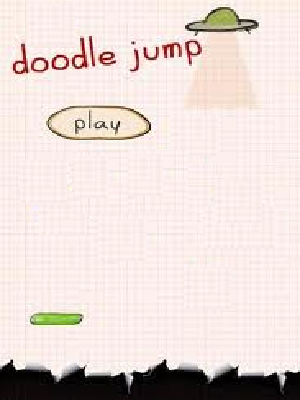
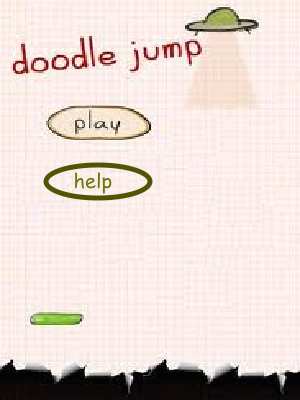
Added Factory pattern for tile generation and memento pattern for switching between help and start screen. Also breakable and spring tiles have been added to images folder

Changed region(s): [[0.15, 0.39, 0.51, 0.51]]

diff --git a/doodler.java b/doodler.java
@@ -18,6 +18,12 @@ public class doodler  extends Actor
     ground Ground = new ground();
     int scrollSpeed;
     int hits = 0;
+    int x1;
+    int x2;
+    int y1,y2;
+    int groundChance;
+    
+    public static int groundCount=0;
     /**
      * Act - do whatever the doodler wants to do. This method is called whenever
      * the 'Act' or 'Run' button gets pressed in the environment.
@@ -88,14 +94,72 @@ public class doodler  extends Actor
             if(canMove & !Ground.hasBeenBounced)
             {
                 Ground.hasBeenBounced=true;
+                groundChance=Greenfoot.getRandomNumber(100);
+                y1=getRandomY(groundCount%350);
+                y2=y1+100;    
+                
+                //generate brown tiles between 0-30      
+                if(groundChance <=  30 )
                 {
-                    getWorld().addObject(groundFactory.getGround(Greenfoot.getRandomNumber(2)), Greenfoot.getRandomNumber(300), 0);
-                    getWorld().addObject(groundFactory.getGround(Greenfoot.getRandomNumber(2)), Greenfoot.getRandomNumber(20), 70);
+                    x1=Greenfoot.getRandomNumber(300);
+                    x2=getRandomX(x1);
+                    groundCount++;
+                    //1 => Brown tile
+                    getWorld().addObject(groundFactory.getGround(1), x1, y1);
+                   
+                    groundCount++;
+                    
+                    getWorld().addObject(groundFactory.getGround(0), x2, y2);
+                    
                 }
+                  
+                    //generate spring tile between 30-40 
+                else if(groundChance <= 40)   
+                    {
+                    x1=Greenfoot.getRandomNumber(300);
+                    x2=getRandomX(x1);
+                    groundCount++;
+                    //2 => spring Tile
+                    getWorld().addObject(groundFactory.getGround(2), x1, y1);
+                    groundCount++;
+                    getWorld().addObject(groundFactory.getGround(0), x2, y2);
+                    
+                }
+                else
+                    {
+                    x1=Greenfoot.getRandomNumber(300);
+                    x2=getRandomX(x1);    
+                      //generate green tiles   
+                    groundCount++;
+                    //0 => Green tile
+                    getWorld().addObject(groundFactory.getGround(0), x1, y1);
+  
+                    groundCount++;  
+                    getWorld().addObject(groundFactory.getGround(0), x2, y2);
+                    
+                    }    
+                    
             }
         }
     }
+    //avoid overlapping of tiles
+    public int getRandomX(int randomX1)
+    {
+        int randomX2=Greenfoot.getRandomNumber(300);
+        while(randomX2==randomX1)
+        {
+         randomX2= Greenfoot.getRandomNumber(300);
+        }
+        
+        return randomX2;
+       
+    }    
 
+    public int getRandomY(int count)
+    {
+        //System.out.println(((count*20)+count)/100);
+        return ((count*20)+count)/100; 
+    }    
     public void keys()
     {
         if(Greenfoot.isKeyDown("right"))
@@ -156,6 +220,7 @@ public class doodler  extends Actor
     {
         ((doodleWorld) getWorld()).fall = true;
         ((doodleWorld) getWorld()).scrollSpeed = (int) -ys;
+        groundCount=0;
     }
 
     public void scout()

diff --git a/doodleWorld.java b/doodleWorld.java
@@ -8,7 +8,7 @@ import greenfoot.*;  // (World, Actor, GreenfootImage, Greenfoot and MouseInfo)
  */
 public class doodleWorld  extends World
 {
-    boolean bStarted, started = false;
+    boolean bStarted, started,help  = false;
     boolean once;
     int transparency = 0;
     int scrollSpeed;
@@ -18,6 +18,7 @@ public class doodleWorld  extends World
     GroundFactory groundFactory=new GroundFactory();
     int height = 0;
     int doodleX;
+    worldMemento memento;
     /**
      * Constructor for objects of class doodleWorld.
      * 
@@ -37,10 +38,12 @@ public class doodleWorld  extends World
         height = 0;
         fall = false;
         ended = false;
+        help=false;
     }
 
     public void act()
     {
+        MouseInfo mouse = Greenfoot.getMouseInfo();
         if(bStarted==false & Greenfoot.mouseMoved(this))
         {
             bStarted = true;
@@ -48,7 +51,7 @@ public class doodleWorld  extends World
 
         if(started==false & bStarted==true)
         {
-            MouseInfo mouse = Greenfoot.getMouseInfo();
+            //MouseInfo mouse = Greenfoot.getMouseInfo();
 
             if(Greenfoot.mouseClicked(this))
             {
@@ -56,6 +59,19 @@ public class doodleWorld  extends World
                 && mouse.getY()>=104 & mouse.getY()<=138)
                 {
                     started = true;
+                }
+            }
+            
+            if(Greenfoot.mouseClicked(this))
+            {
+                if(mouse.getX()>=45 & mouse.getX()<=150
+                && mouse.getY()>=170 & mouse.getY()<=200)
+                {
+                    bStarted = false;
+                    saveWorldToMemento(this);
+                    helpWorld help =new helpWorld(memento);
+                    //helpWorld help =new helpWorld(this);
+                    Greenfoot.setWorld(help);
                 }
             }
         }
@@ -66,16 +82,23 @@ public class doodleWorld  extends World
             once = false;
             setLevel(1);
         }
+        
         if(fall)
         {
             end();
         }
+    }
+    
+    public void saveWorldToMemento(doodleWorld doodleWorld)
+    {
+       memento= new worldMemento(doodleWorld);
     }
 
     public void cleanup()
     {
         removeObjects(getObjects(doodler.class));
         removeObjects(getObjects(ground.class));
+        //removeObjects(getObjects(worldMemento.class));
     }
 
     public void setLevel(int level)
@@ -89,6 +112,7 @@ public class doodleWorld  extends World
     public void gamePlay()
     {
         addObject(new doodler(), getWidth()/2, 300);
+        addObject(groundFactory.getGround(0), 28,391);
         addObject(groundFactory.getGround(0), 83,391);
         addObject(groundFactory.getGround(0), 83+55,391);
         addObject(groundFactory.getGround(0), 83+55+55,391);
@@ -116,5 +140,6 @@ public class doodleWorld  extends World
         height = 0;
         fall = false;
         ended = false;
+       
     }
 }

diff --git a/helpWorld.java b/helpWorld.java
@@ -1,0 +1,43 @@
+import greenfoot.*;
+
+/**
+ * Write a description of class helpWorld here.
+ * 
+ * @author (your name) 
+ * @version (a version number or a date)
+ */
+public class helpWorld extends World
+{
+    public worldMemento memento;
+    private doodleWorld doodleWorld;
+    
+    public helpWorld(worldMemento memento)
+    {    
+        super(300,400, 1); 
+        setBackground("help.png");
+        getBackground().setTransparency(255); 
+        this.memento=memento;
+    }
+    public void act()
+    {
+        MouseInfo mouse = Greenfoot.getMouseInfo();
+        if(mouse != null )
+         {
+                
+                if(Greenfoot.mouseClicked(this))
+            {
+                if(mouse.getX()>=85 & mouse.getX()<=195
+                && mouse.getY()>=345 & mouse.getY()<=396)
+                {
+                    this.doodleWorld=memento.getWorld();
+                    Greenfoot.setWorld(doodleWorld);  
+                }
+            }
+                
+        }   
+        
+    }    
+    
+    
+
+}

diff --git a/worldMemento.java b/worldMemento.java
@@ -1,0 +1,22 @@
+import greenfoot.*;
+
+/**
+ * Write a description of class worldMemento here.
+ * 
+ * @author (your name) 
+ * @version (a version number or a date)
+ */
+public class worldMemento
+{
+   private doodleWorld doodleWorld;
+   
+   public worldMemento(doodleWorld doodle)
+   {
+      this.doodleWorld=doodle;
+   }
+   
+   public doodleWorld getWorld()
+   {
+      return doodleWorld;
+   }   
+}

diff --git a/ground.java b/ground.java
@@ -23,7 +23,11 @@ public class ground  extends Actor
     public ground(String color)
     {
         if(color.equals("brown")){
-            setImage("flan.png");
+            setImage("breakable.png");
+        }
+        
+        if(color.equals("spring")){
+            setImage("spring.png");
         }
         hasBeenBounced=false;
     }

diff --git a/GroundFactory.java b/GroundFactory.java
@@ -17,6 +17,8 @@ public class GroundFactory
       
              case 1:
                 return new ground("brown");
+             case 2:
+                 return new ground("spring");
                 
              default: 
                 return new ground();
